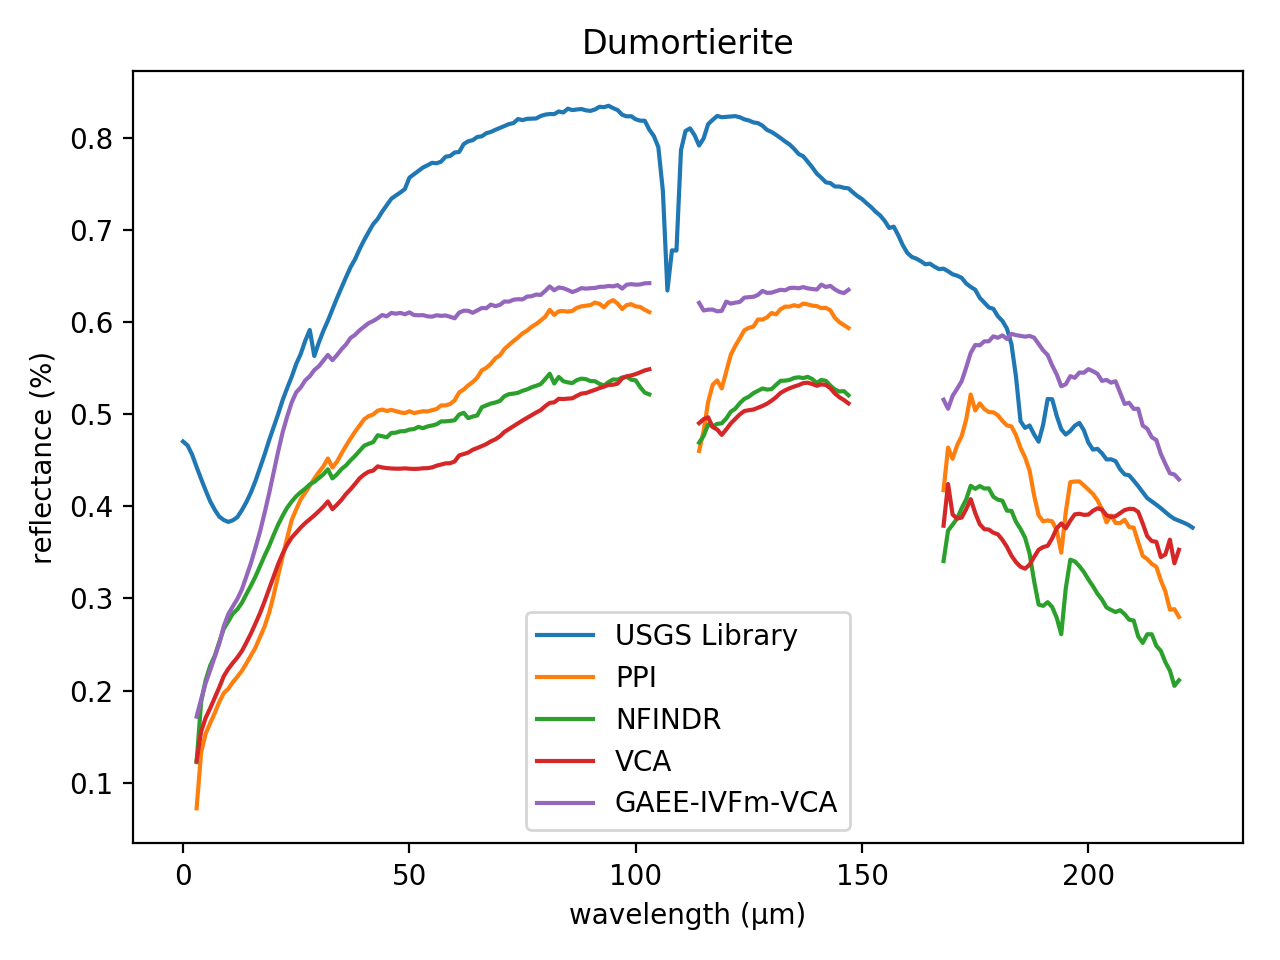
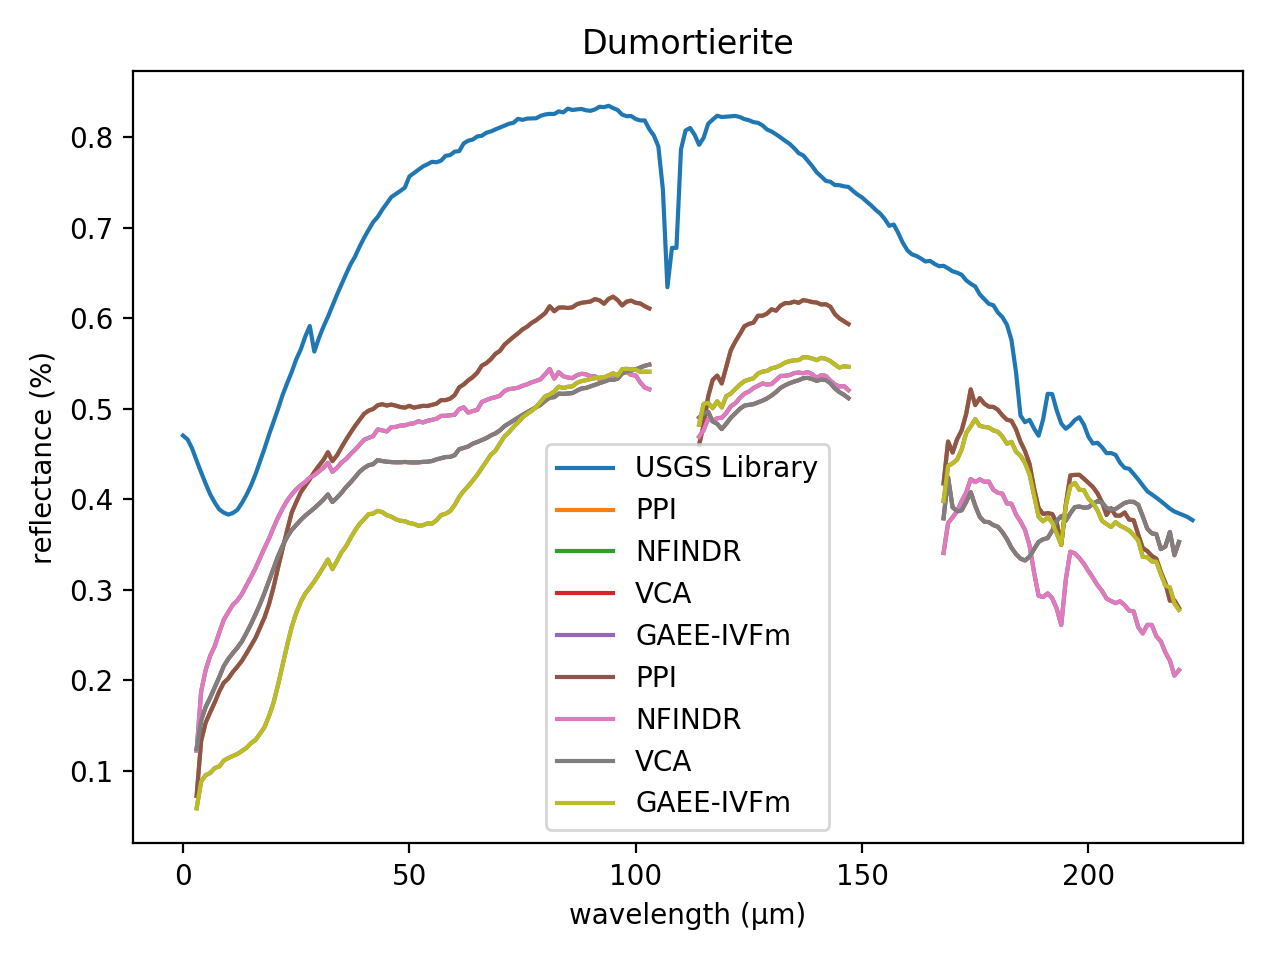
Endmembers Plot

diff --git a/DEMO.py b/DEMO.py
@@ -536,9 +536,37 @@ def run():
 
 
 	for l in algo:
+
+		algo2 = []
+
+		for k in range(0,3):
+			algo2.append(algo[k])
+
+		for k in algo:
+			if k.name != 'PPI' and k.name != 'NFINDR' and k.name != 'VCA':
+				if np.mean(k.sam_mean) <= best_mean_gaee :
+					best_gaee = k
+					best_mean_gaee = np.mean(k.sam_mean)
+
+		algo2.append(best_gaee)
+
 		p = stats.ttest_ind(np.mean(vca.sam_all_runs_value,axis=1),np.mean(l.sam_all_runs_value,axis=1))
 		tab1_sam[l.name] = l.sam_values_min
 		tab4_sam_stats[l.name] = [np.mean(l.sam_mean), np.mean(l.sam_std), p[0], 100-(100*np.mean(best_gaee.sam_mean)/np.mean(l.sam_mean)), np.mean(l.time_runs)]
+		algo2 = []
+
+		for k in range(0,3):
+			algo2.append(algo[k])
+
+		for k in algo:
+			if k.name != 'PPI' and k.name != 'NFINDR' and k.name != 'VCA':
+				if np.mean(k.sid_mean) <= best_mean_gaee :
+					best_gaee = k
+					best_mean_gaee = np.mean(k.sid_mean)
+
+		algo2.append(best_gaee)
+
+
 		p = stats.ttest_ind(np.mean(vca.sid_all_runs_value,axis=1),np.mean(l.sid_all_runs_value,axis=1))
 		tab2_sid[l.name] = l.sid_values_min
 		tab5_sid_stats[l.name] = [np.mean(l.sid_mean), np.mean(l.sid_std), p[0],100-(100*np.mean(best_gaee.sam_mean)/np.mean(l.sam_mean)) ,np.mean(l.time_runs)]
@@ -576,7 +604,17 @@ def run():
 		table_fancy = table_fancy.replace(line, line.replace(' '+mi+' ', ' **'+mi+'** '))
 	file.write(table_fancy+'\n\n')
 
-	
+
+	for k in range(0,3):
+		algo2.append(algo[k])
+
+		for k in algo:
+			if k.name != 'PPI' and k.name != 'NFINDR' and k.name != 'VCA':
+				if np.mean(k.sam_mean) <= best_mean_gaee :
+					best_gaee = k
+					best_mean_gaee = np.mean(k.sam_mean)
+
+	algo2.append(best_gaee)	
 	colors = []
 
 	# fig = plt.figure()

diff --git a/README.md b/README.md
@@ -29,55 +29,55 @@ Maximum number of iterations (N-FINDR): 1
 
 | Endmembers       |    PPI |   NFINDR |    VCA |   GAEE |   GAEE-IVFm |   GAEE-VCA |   GAEE-IVFm-VCA |
 |:-----------------|-------:|---------:|-------:|-------:|------------:|-----------:|----------------:|
-| Alunite          | 0.3744 |   **0.0926** | 0.1016 | 0.1332 |      0.2669 |     0.1034 |          0.1034 |
-| Andradite        | 0.0758 |   0.0725 | 0.0921 | 0.0911 |      **0.0637** |     0.0739 |          0.0815 |
-| Buddingtonite    | 0.2081 |   **0.0762** | 0.0786 | 0.0950 |      0.1258 |     0.0897 |          0.0897 |
-| Dumortierite     | 0.1907 |   0.0720 | **0.0708** | 0.0791 |      0.0813 |     0.0919 |          0.0919 |
-| Kaolinite_1      | **0.0795** |   0.0870 | 0.0862 | 0.0886 |      0.1139 |     0.0870 |          0.0870 |
-| Kaolinite_2      | 0.0820 |   0.0889 | 0.0797 | 0.0644 |      **0.0627** |     0.0668 |          0.0811 |
-| Muscovite        | 0.2506 |   **0.1091** | 0.1205 | 0.1566 |      0.1689 |     0.1114 |          0.1114 |
-| Montmonrillonite | 0.1338 |   0.0648 | **0.0643** | 0.0665 |      0.0698 |     0.0646 |          0.0646 |
-| Nontronite       | 0.1033 |   **0.0758** | 0.1060 | 0.0776 |      0.0793 |     0.0804 |          0.0942 |
-| Pyrope           | 0.0579 |   0.1222 | 0.2367 | 0.0613 |      0.0711 |     **0.0565** |          0.1902 |
-| Sphene           | 0.0673 |   0.2857 | 0.0834 | 0.1928 |      0.1610 |     0.1443 |          **0.0627** |
-| Chalcedony       | **0.0871** |   **0.0871** | 0.0878 | 0.1371 |      0.1092 |     **0.0871** |          **0.0871** |
+| Alunite          | 0.3744 |   **0.0926** | 0.1025 | 0.2554 |      0.2839 |     0.1043 |          0.1043 |
+| Andradite        | 0.0758 |   0.0725 | **0.0671** | 0.0717 |      0.0682 |     0.0791 |          0.0797 |
+| Buddingtonite    | 0.2081 |   **0.0762** | 0.0786 | 0.1274 |      0.1255 |     **0.0762** |          **0.0762** |
+| Dumortierite     | 0.1907 |   0.0720 | **0.0702** | 0.0899 |      0.0896 |     0.1198 |          0.0789 |
+| Kaolinite_1      | **0.0795** |   0.0870 | 0.0862 | 0.1048 |      0.0883 |     0.0870 |          0.0870 |
+| Kaolinite_2      | 0.0820 |   0.0889 | 0.0639 | 0.0708 |      **0.0593** |     0.0630 |          0.0758 |
+| Muscovite        | 0.2506 |   **0.1091** | 0.1306 | 0.1633 |      0.1756 |     **0.1091** |          **0.1091** |
+| Montmonrillonite | 0.1338 |   0.0648 | **0.0640** | 0.0670 |      0.0660 |     0.0726 |          0.0646 |
+| Nontronite       | 0.1033 |   0.0758 | 0.0799 | 0.0783 |      **0.0728** |     0.0758 |          0.0826 |
+| Pyrope           | **0.0579** |   0.1222 | 0.2933 | 0.0603 |      0.0636 |     0.0781 |          0.1105 |
+| Sphene           | **0.0673** |   0.2857 | 0.0770 | 0.1127 |      0.0819 |     0.2154 |          0.0693 |
+| Chalcedony       | 0.0871 |   0.0871 | 0.0953 | 0.1224 |      0.0853 |     **0.0752** |          **0.0752** |
 
 ### SAM Statistics for Cuprite Dataset. 
 
-| Statistics   |      PPI |   NFINDR |    VCA |    GAEE |   GAEE-IVFm |   GAEE-VCA |   GAEE-IVFm-VCA |
-|:-------------|---------:|---------:|-------:|--------:|------------:|-----------:|----------------:|
-| _Mean_       |   0.1425 |   0.1059 | 0.1022 |  0.1067 |      0.1179 |     0.0987 |          **0.0982** |
-| _Std_        |   **0.0000** |   0.0086 | 0.0030 |  0.0100 |      0.0147 |     0.0107 |          0.0152 |
-| _p-value_    | -25.7788 |  **-1.0692** | 0.0000 | -1.2952 |     -4.1462 |     0.3285 |          1.2291 |
-| Gain         |  31.0808 |   7.2730 | 3.8898 |  7.8910 |     16.6756 |     0.4602 |          **0.0000** |
-| _Time_       |   0.3295 |   4.1457 | 0.7222 |  0.2550 |      0.2399 |     0.2391 |          **0.2237** |
+| Statistics   |     PPI |   NFINDR |     VCA |    GAEE |   GAEE-IVFm |   GAEE-VCA |   GAEE-IVFm-VCA |
+|:-------------|--------:|---------:|--------:|--------:|------------:|-----------:|----------------:|
+| _Mean_       |  0.1425 |   0.1059 |  0.1055 |  0.1191 |      0.1081 |     0.0969 |          **0.0867** |
+| _Std_        |  **0.0000** |   0.0086 |  0.0177 |  0.0137 |      0.0100 |     0.0185 |          0.0046 |
+| _p-value_    | -7.7174 |  **-0.0756** |  0.0000 | -1.3599 |     -0.4524 |     1.7790 |          3.5647 |
+| Gain         | 39.2077 |  -2.0236 | -2.4421 |  9.2518 |      0.0000 |   **-11.5383** |        -24.7343 |
+| _Time_       |  0.3415 |   4.0307 |  0.7263 |  0.3175 |      0.2477 |     0.2476 |          **0.2470** |
 
 ### Comparison between the ground-truth Laboratory Reflectances and extracted endmembers using PPI, N-FINDR, VCA, GAEE, GAEE-IVFm using SID for the Cuprite Dataset.
 
 | Endmembers       |    PPI |   NFINDR |    VCA |   GAEE |   GAEE-IVFm |   GAEE-VCA |   GAEE-IVFm-VCA |
 |:-----------------|-------:|---------:|-------:|-------:|------------:|-----------:|----------------:|
-| Alunite          | **0.0000** |   **0.0000** | 0.0133 | **0.0000** |      **0.0000** |     0.0137 |          0.0137 |
-| Andradite        | **0.0000** |   0.0062 | 0.0080 | **0.0000** |      **0.0000** |     0.0099 |          0.0185 |
-| Buddingtonite    | 0.0477 |   **0.0072** | 0.0077 | 0.0117 |      0.0163 |     0.0127 |          0.0097 |
-| Dumortierite     | 0.0562 |   **0.0069** | 0.0072 | 0.0095 |      0.0113 |     0.0114 |          0.0114 |
-| Kaolinite_1      | 0.0114 |   0.0131 | 0.0129 | 0.0170 |      0.0152 |     **0.0102** |          0.0114 |
-| Kaolinite_2      | 0.0114 |   0.0109 | 0.0081 | **0.0057** |      0.0064 |     0.0058 |          0.0076 |
-| Muscovite        | 0.0969 |   0.0317 | **0.0187** | 0.0297 |      0.0496 |     0.0189 |          0.0261 |
-| Montmonrillonite | 0.0230 |   0.0049 | 0.0047 | 0.0049 |      **0.0046** |     0.0047 |          0.0047 |
-| Nontronite       | 0.0126 |   0.0077 | 0.0133 | 0.0077 |      0.0085 |     0.0115 |          **0.0074** |
-| Pyrope           | 0.0071 |   0.0531 | 0.0624 | 0.0063 |      **0.0061** |     0.0154 |          0.0083 |
-| Sphene           | **0.0076** |   0.0912 | 0.0096 | 0.0529 |      0.0195 |     0.0529 |          0.0529 |
-| Chalcedony       | **0.0088** |   **0.0088** | 0.0090 | 0.0257 |      0.0501 |     **0.0088** |          **0.0088** |
+| Alunite          | **0.0000** |   **0.0000** | 0.0140 | **0.0000** |      **0.0000** |     **0.0000** |          **0.0000** |
+| Andradite        | **0.0000** |   0.0062 | 0.0065 | **0.0000** |      0.0055 |     0.0131 |          **0.0000** |
+| Buddingtonite    | 0.0477 |   0.0072 | 0.0200 | **0.0000** |      0.0204 |     0.0505 |          0.0072 |
+| Dumortierite     | 0.0562 |   **0.0069** | 0.0072 | 0.0116 |      0.0117 |     0.0075 |          0.0207 |
+| Kaolinite_1      | 0.0114 |   0.0131 | 0.0129 | 0.0137 |      0.0134 |     **0.0073** |          0.0131 |
+| Kaolinite_2      | 0.0114 |   0.0109 | 0.0057 | 0.0062 |      **0.0052** |     0.0109 |          0.0064 |
+| Muscovite        | 0.0969 |   0.0317 | 0.0217 | 0.0320 |      0.0384 |     0.0285 |          **0.0152** |
+| Montmonrillonite | 0.0230 |   0.0049 | 0.0053 | 0.0051 |      0.0050 |     0.0052 |          **0.0047** |
+| Nontronite       | 0.0126 |   0.0077 | 0.0102 | 0.0082 |      **0.0076** |     0.0077 |          0.0079 |
+| Pyrope           | 0.0071 |   0.0531 | 0.0348 | 0.0112 |      **0.0068** |     0.0079 |          0.0115 |
+| Sphene           | **0.0076** |   0.0912 | 0.0911 | 0.0462 |      0.0251 |     0.0529 |          0.0529 |
+| Chalcedony       | 0.0088 |   0.0088 | 0.0070 | 0.0217 |      0.0093 |     **0.0067** |          **0.0067** |
 
 ### SID Statistics for Cuprite Dataset. 
 
-| Statistics   |     PPI |   NFINDR |    VCA |   GAEE |   GAEE-IVFm |   GAEE-VCA |   GAEE-IVFm-VCA |
-|:-------------|--------:|---------:|-------:|-------:|------------:|-----------:|----------------:|
-| _Mean_       |  0.0236 |   0.0227 | 0.0216 | **0.0153** |      0.0158 |     0.0195 |          0.0172 |
-| _Std_        |  **0.0000** |   0.0033 | 0.0081 | 0.0014 |      0.0026 |     0.0068 |          0.0083 |
-| _p-value_    | -0.2773 |  **-0.1422** | 0.0000 | 0.8854 |      0.8249 |     0.2519 |          0.6077 |
-| Gain         | 31.0808 |   7.2730 | 3.8898 | 7.8910 |     16.6756 |     0.4602 |          **0.0000** |
-| _Time_       |  0.3295 |   4.1457 | 0.7222 | 0.2550 |      0.2399 |     0.2391 |          **0.2237** |
+| Statistics   |     PPI |   NFINDR |     VCA |   GAEE |   GAEE-IVFm |   GAEE-VCA |   GAEE-IVFm-VCA |
+|:-------------|--------:|---------:|--------:|-------:|------------:|-----------:|----------------:|
+| _Mean_       |  0.0236 |   0.0227 |  0.0242 | 0.0144 |      **0.0134** |     0.0191 |          0.0183 |
+| _Std_        |  **0.0000** |   0.0033 |  0.0071 | 0.0044 |      0.0039 |     0.0081 |          0.0063 |
+| _p-value_    |  0.1484 |   0.3000 |  **0.0000** | 2.0795 |      2.3326 |     0.9717 |          0.7844 |
+| Gain         | 24.1712 |  -2.0236 | -2.4421 | 9.2518 |      0.0000 |   **-11.5383** |        -24.7343 |
+| _Time_       |  0.3415 |   4.0307 |  0.7263 | 0.3175 |      0.2477 |     0.2476 |          **0.2470** |
 
 ![alt text](./IMAGES/Alunite_Endmember.png)
 
